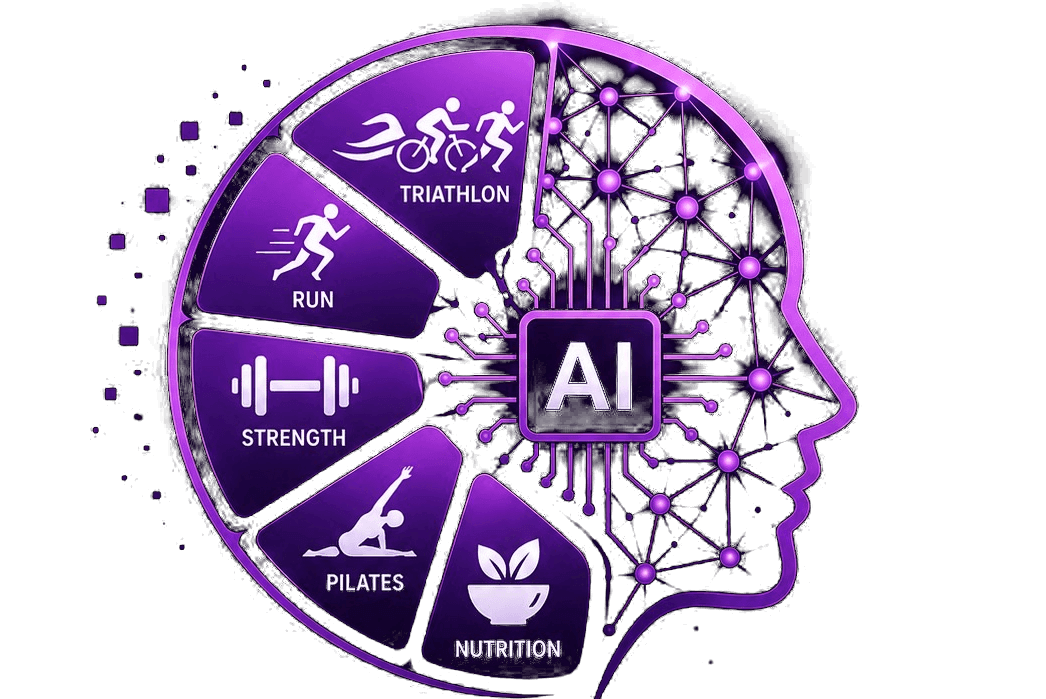
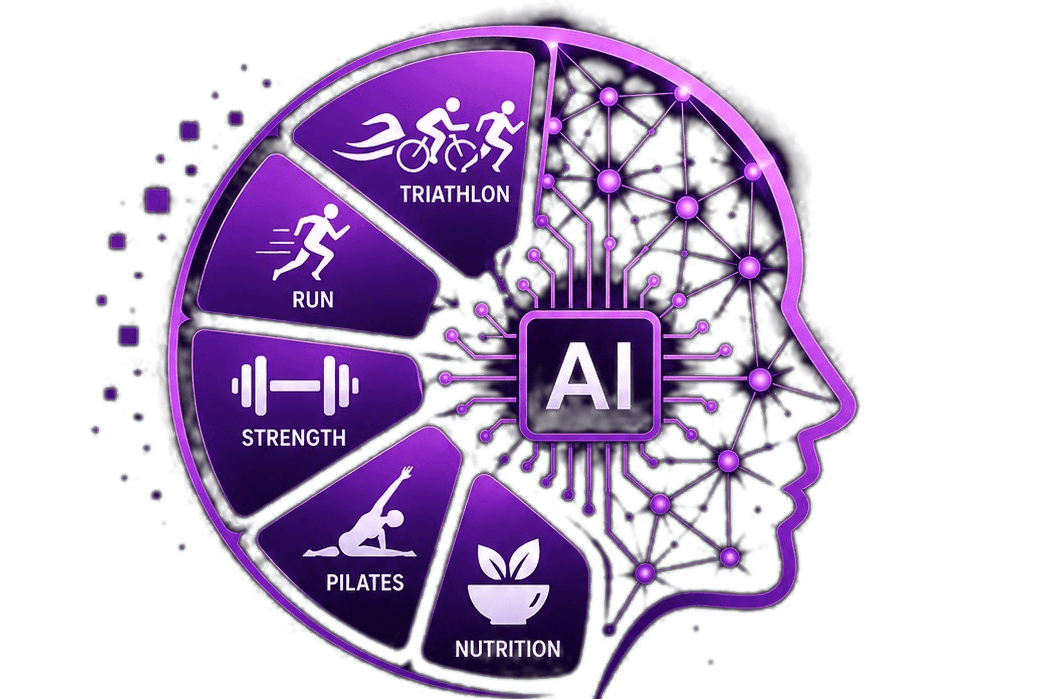
Remove the visible box around the hero emblem
The lighter rectangle was two things stacking: the emblem PNG carried a
faint semi-transparent haze out to its bounds, and the .glow div's
radial gradient wasn't fully transparent at the div's straight edges.

- Emblem PNG: crush the sub-~70 alpha haze to zero, keep the artwork,
  light 1.8px feather for a clean edge
- .glow: border-radius 50% + closest-side gradient that reaches
  zero-alpha at 78%, so no element edge is ever painted
- Hero: square glow element, drop the per-image mask (no longer needed)

diff --git a/app/components/Hero.tsx b/app/components/Hero.tsx
@@ -80,7 +80,7 @@ export default function Hero() {
         {/* Visual — full brand emblem, bled into the layout */}
         <div className="order-1 flex justify-center lg:order-2 lg:block">
           <div className="relative w-full max-w-[340px] sm:max-w-[460px] lg:max-w-none lg:-ml-[9%] lg:-mr-[4%] lg:w-[118%]">
-            <div className="glow pointer-events-none absolute inset-[-40%]" />
+            <div className="glow pointer-events-none absolute left-1/2 top-1/2 aspect-square w-[135%] -translate-x-1/2 -translate-y-1/2" />
             <Image
               src="/fitmatch-icon.png"
               alt="FITMATCH AI — התאמה חכמה בין מתאמנים לאנשי מקצוע בכל תחומי הכושר"
@@ -88,13 +88,7 @@ export default function Hero() {
               height={699}
               priority
               sizes="(max-width: 1024px) 80vw, 700px"
-              className="relative h-auto w-full object-contain drop-shadow-[0_0_55px_rgba(139,92,246,0.4)]"
-              style={{
-                maskImage:
-                  "radial-gradient(125% 125% at 51% 45%, #000 22%, rgba(0,0,0,0.55) 58%, transparent 92%)",
-                WebkitMaskImage:
-                  "radial-gradient(125% 125% at 51% 45%, #000 22%, rgba(0,0,0,0.55) 58%, transparent 92%)",
-              }}
+              className="relative h-auto w-full object-contain drop-shadow-[0_0_40px_rgba(139,92,246,0.35)]"
             />
           </div>
         </div>

diff --git a/app/globals.css b/app/globals.css
@@ -113,16 +113,16 @@ h3 {
   background-size: 100% 100%, 62px 62px, 62px 62px;
 }
 
-/* soft radial glow — same-hue alpha falloff (no dark ring from `transparent`) */
+/* soft radial glow — fades fully to zero-alpha before reaching any edge,
+   so the element's own bounds are never visible (no ring, no rectangle) */
 .glow {
   --gr: var(--glow-rgb, 139 92 246);
-  border-radius: 9999px;
+  border-radius: 50%;
   background: radial-gradient(
-    circle at center,
-    rgb(var(--gr) / 0.2) 0%,
-    rgb(var(--gr) / 0.09) 36%,
-    rgb(var(--gr) / 0.025) 60%,
-    rgb(var(--gr) / 0) 80%
+    closest-side at center,
+    rgb(var(--gr) / 0.18),
+    rgb(var(--gr) / 0.06) 45%,
+    rgb(var(--gr) / 0) 78%
   );
 }
 
